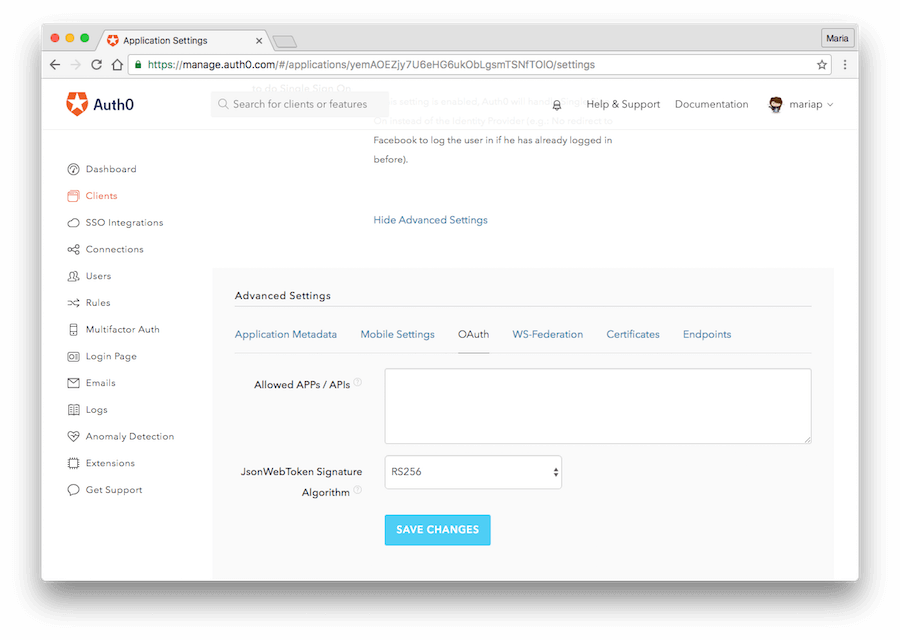
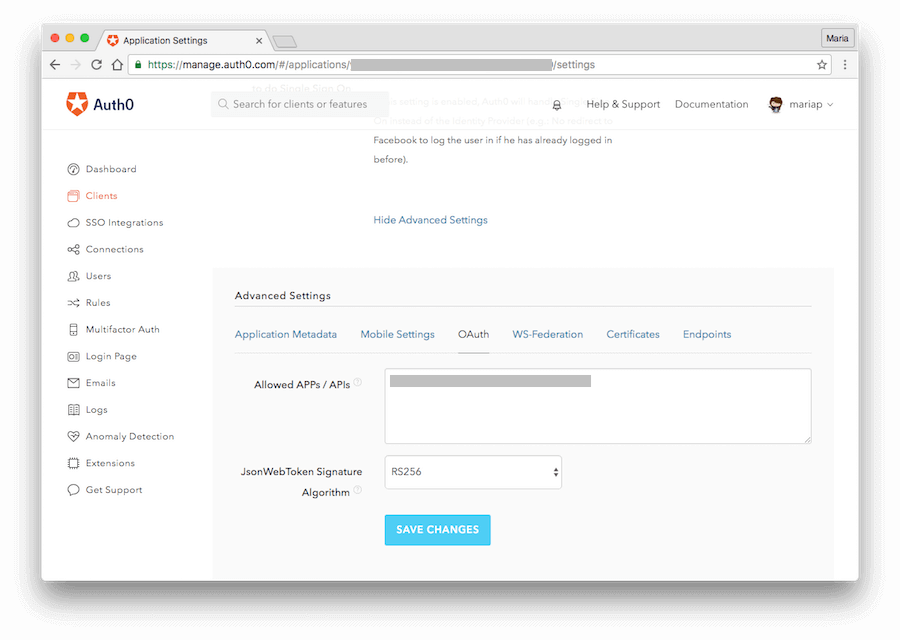
Set Client ID as Allowed App

Changed region(s): [[0.4356, 0.5625, 0.6533, 0.625], [0.3733, 0.0938, 0.6222, 0.125]]

diff --git a/articles/extensions/delegated-admin.md b/articles/extensions/delegated-admin.md
@@ -14,14 +14,16 @@ Let's start with creating a new client application. Navigate to [Clients](${uiUR
 
 ![](/media/articles/extensions/delegated-admin/create-client.png)
 
-Navigate to *Settings > Show Advanced Settings > OAuth* and set the **JsonWebToken Signature Algorithm** to *RS256*. Click **Save Changes**.
-
-![](/media/articles/extensions/delegated-admin/set-rs256.png)
-
-While on the *Settings* tab set the **Allowed Callback URLs**. This varies based on your location.
+Click on the *Settings* tab and set the **Allowed Callback URLs**. This varies based on your location.
 - For US based, use: `https://sandbox.it.auth0.com/api/run/${account.tenant}/8d6f0f0711daedc87d1a6d595771015a/login`
 - For Europe based, use: `https://sandbox-eu.it.auth0.com/api/run/${account.tenant}/8d6f0f0711daedc87d1a6d595771015a/login`
 - For Australia based, use: `https://sandbox-au.it.auth0.com/api/run/${account.tenant}/8d6f0f0711daedc87d1a6d595771015a/login`
+
+Copy the **Client ID** value. 
+
+Navigate to *Settings > Show Advanced Settings > OAuth* and paste the **Client ID** value to the **Allowed APPs / APIs** field. Set the **JsonWebToken Signature Algorithm** to *RS256*.
+
+![](/media/articles/extensions/delegated-admin/set-rs256.png)
 
 Save your changes.
 
